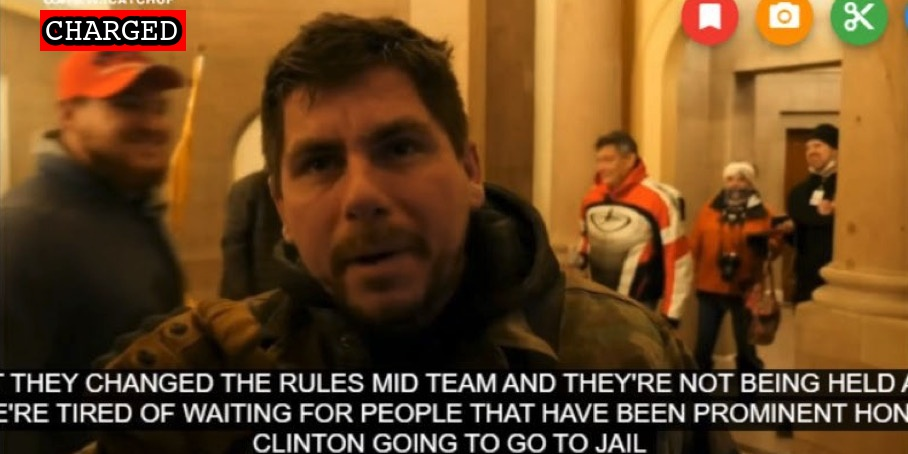
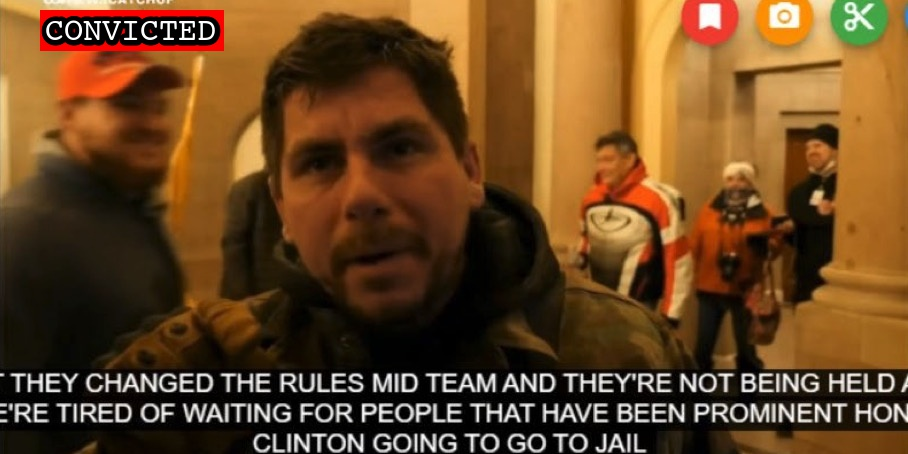
Latest import

Changed region(s): [[0.0617, 0.0, 0.2467, 0.1233]]

diff --git a/commands/suspect-import.ts b/commands/suspect-import.ts
@@ -358,6 +358,7 @@ const falsePositives = (site: string) => {
       set.add("Zoyganeles");
       set.add("Riddle");
       set.add("Robinson");
+      set.add("Gray");
       break;
     case "DOJ":
       set.add("Capsel");
@@ -679,6 +680,9 @@ const linkType = (description: string, lastName?: string) => {
     case /Defense Reply to Opposition to Motion for Release from Custody/.test(description):
     case /Defense Reply to Opposition to Motion for Conditional Release/.test(description):
     case /Defense Reply to Government Opposition to Motion for Reconsideration of Pretrial Detention/.test(description):
+    case /Reply to Government Opposition to Motion for Reconsideration of Motion for Conditional Release/.test(
+      description,
+    ):
       return "Defense Reply to Opposition to Motion for Release from Custody";
 
     case /Defense Response to Motion for Appeal of Release Order/.test(description):

diff --git a/docs/_suspects/anthony-mazzio.md b/docs/_suspects/anthony-mazzio.md
@@ -4,15 +4,16 @@ lastName: Mazzio
 hashtag:
 aka:
 residence: Alabama
-status: Charged
+status: Convicted
 date: 2022-03-22
 charged: 2022-03-22
 indicted:
-convicted:
+convicted: 2022-06-24
+acquitted:
 sentenced:
 dismissed:
 deceased:
-plea_hearing:
+plea_hearing: 2022-06-24
 trial_date:
 sentencing:
 age:
@@ -26,18 +27,25 @@ courtroom:
 courthouse:
 raid:
 perpwalk:
-quote: 'We are tired of waiting for people that have been prominent, honestly Hillary Clinton is going to go to jail.'
+quote: "We are tired of waiting for people that have been prominent, honestly Hillary Clinton is going to go to jail."
 title: Anthony Mazzio charged on March 22nd, 2022
 description: Click for latest case details. Suspects innocent until proven guilty.
 author: seditiontrack
 layout: suspect
 published: true
-caseNumber:
+caseNumber: 1:22-cr-214
 videos:
 charges:
+  - code: 40 USC § 5104(e)(2)(G)
+    title: Parading, demonstrating or picketing in a Capitol building
+    url: https://www.law.cornell.edu/uscode/text/40/5104
+    felony: false
 sentence:
 ---
 
 - [News Report](https://www.msn.com/en-us/news/politics/capitol-rioter-vowed-hillary-clinton-is-going-to-go-to-jail-now-he-s-the-one-facing-time-behind-bars/ar-AAVQGKt)
 - [Complaint](https://www.justice.gov/usao-dc/case-multi-defendant/file/1490451/download)
 - [Statement of Facts](https://www.justice.gov/usao-dc/case-multi-defendant/file/1490456/download)
+- [Information](https://www.justice.gov/usao-dc/case-multi-defendant/file/1515086/download)
+- [Plea Agreement](https://www.justice.gov/usao-dc/case-multi-defendant/file/1515091/download)
+- [Statement of Offense](https://www.justice.gov/usao-dc/case-multi-defendant/file/1515096/download)

diff --git a/docs/_suspects/donovan-crowl.md b/docs/_suspects/donovan-crowl.md
@@ -9,10 +9,12 @@ date: 2021-01-17
 charged: 2021-01-17
 indicted: 2021-01-27
 convicted:
+acquitted:
 sentenced:
 dismissed:
 deceased:
 plea_hearing:
+trial_date:
 sentencing:
 age: 50
 occupation: Former U.S. Military (Marines)
@@ -41,6 +43,6 @@ sentence:
 - [Complaint](https://www.justice.gov/opa/page/file/1356121/download)
 - [Statement of Facts](https://www.justice.gov/opa/page/file/1360991/download)
 - [DOJ Press Release](https://www.justice.gov/opa/pr/three-individuals-affiliated-oath-keepers-indicted-federal-court-conspiracy-obstruct)
-- [Indictment](https://www.justice.gov/usao-dc/case-multi-defendant/file/1471056/download)
+- [Indictment](https://www.justice.gov/usao-dc/case-multi-defendant/file/1515116/download)
 - [Government Opposition to Reconsideration of Release](https://extremism.gwu.edu/sites/g/files/zaxdzs2191/f/Donovan%20Crowl%20Governments%20Opposition%20to%20Defendants%20Motion%20for%20Reconsideration%20of%20Detention%20Order.pdf)
 - [Detention Order](https://extremism.gwu.edu/sites/g/files/zaxdzs2191/f/Donovan%20Crowl%20Governments%20Opposition%20to%20Defendants%20Motion%20for%20Reconsideration%20of%20Detention%20Order.pdf)

diff --git a/docs/_suspects/bennie-parker.md b/docs/_suspects/bennie-parker.md
@@ -9,10 +9,12 @@ date: 2021-02-18
 charged: 2021-02-18
 indicted: 2021-02-19
 convicted:
+acquitted:
 sentenced:
 dismissed:
 deceased:
 plea_hearing:
+trial_date:
 sentencing:
 age: 70
 occupation:
@@ -39,5 +41,5 @@ sentence:
 - [News Report](https://www.dispatch.com/story/news/politics/state/2021/02/19/capitol-arrests-warren-county-couple-charged-jan-6-insurrection/4500408001/)
 - [Complaint](https://htv-prod-media.s3.amazonaws.com/files/morrow-couple-1613747755.pdf)
 - [Statement of Facts](https://www.justice.gov/usao-dc/case-multi-defendant/file/1369066/download)
-- [Indictment](https://www.justice.gov/usao-dc/case-multi-defendant/file/1471066/download)
+- [Indictment](https://www.justice.gov/usao-dc/case-multi-defendant/file/1515121/download)
 - [DOJ Press Release](https://www.justice.gov/usao-dc/pr/six-individuals-affiliated-oath-keepers-indicted-federal-grand-jury-conspiracy-obstruct)

diff --git a/docs/_suspects/connie-meggs.md b/docs/_suspects/connie-meggs.md
@@ -9,10 +9,12 @@ date: 2021-02-17
 charged: 2021-02-17
 indicted: 2021-02-19
 convicted: 
+acquitted:
 sentenced: 
 dismissed: 
 deceased:
 plea_hearing:
+trial_date:
 sentencing:
 age: 59
 occupation:
@@ -38,6 +40,6 @@ sentence:
 ---
 - [News Report](https://www.cbsnews.com/news/capitol-riot-oath-keepers-indicted-conspiracy/)
 - [Complaint](https://www.justice.gov/usao-dc/case-multi-defendant/file/1369076/download)
-- [Indictment](https://www.justice.gov/usao-dc/case-multi-defendant/file/1471101/download)
+- [Indictment](https://www.justice.gov/usao-dc/case-multi-defendant/file/1515136/download)
 - [DOJ Press Release](https://www.justice.gov/usao-dc/pr/six-individuals-affiliated-oath-keepers-indicted-federal-grand-jury-conspiracy-obstruct)
 - [Statement of Facts](https://www.justice.gov/usao-dc/case-multi-defendant/file/1369076/download)

diff --git a/docs/_suspects/sandra-parker.md b/docs/_suspects/sandra-parker.md
@@ -9,10 +9,12 @@ date: 2021-02-18
 charged: 2021-02-18
 indicted: 2021-02-19
 convicted: 
+acquitted:
 sentenced: 
 dismissed: 
 deceased:
 plea_hearing:
+trial_date:
 sentencing:
 age: 62
 occupation:
@@ -40,4 +42,4 @@ sentence:
 - [Complaint](https://htv-prod-media.s3.amazonaws.com/files/morrow-couple-1613747755.pdf)
 - [Statement of Facts](https://www.justice.gov/usao-dc/case-multi-defendant/file/1369066/download)
 - [Indictment](https://www.justice.gov/usao-dc/case-multi-defendant/file/1471061/download)
-- [DOJ Press Release](https://www.justice.gov/usao-dc/pr/six-individuals-affiliated-oath-keepers-indicted-federal-grand-jury-conspiracy-obstruct)
+- [DOJ Press Release](https://www.justice.gov/usao-dc/case-multi-defendant/file/1515126/download)

diff --git a/docs/_suspects/james-beeks.md b/docs/_suspects/james-beeks.md
@@ -9,10 +9,12 @@ date: 2021-11-18
 charged: 2021-11-18
 indicted: 2021-12-01
 convicted:
+acquitted:
 sentenced:
 dismissed:
 deceased:
 plea_hearing:
+trial_date:
 sentencing:
 age: 49
 occupation: Broadway Actor, Michael Jackson Impersonator
@@ -38,4 +40,4 @@ sentence:
 ---
 - [News Report](https://www.wpsdlocal6.com/news/florida-man-playing-judas-in-jesus-christ-superstar-accused-in-jan-6-capitol-riot/article_031a5be2-4e45-11ec-b6e1-abd1cda0b6e9.html)
 - [Statement of Facts](https://www.justice.gov/usao-dc/case-multi-defendant/file/1471116/download)
-- [Indictment](https://www.justice.gov/usao-dc/case-multi-defendant/file/1471121/download)
+- [Indictment](https://www.justice.gov/usao-dc/case-multi-defendant/file/1515146/download)

diff --git a/docs/_suspects/laura-steele.md b/docs/_suspects/laura-steele.md
@@ -9,10 +9,12 @@ date: 2021-02-17
 charged: 2021-02-17
 indicted: 2021-02-19
 convicted: 
+acquitted:
 sentenced: 
 dismissed: 
 deceased:
 plea_hearing:
+trial_date:
 sentencing:
 age: 52
 occupation: Law Enforcement (former SWAT)
@@ -38,5 +40,5 @@ sentence:
 ---
 - [News Report](https://www.cbsnews.com/news/capitol-riot-oath-keepers-indicted-conspiracy/)
 - [Complaint](https://www.justice.gov/usao-dc/case-multi-defendant/file/1369076/download)
-- [Indictment](https://www.justice.gov/usao-dc/case-multi-defendant/file/1471076/download)
+- [Indictment](https://www.justice.gov/usao-dc/case-multi-defendant/file/1515131/download)
 - [Statement of Facts](https://www.justice.gov/usao-dc/case-multi-defendant/file/1369076/download)

diff --git a/docs/_suspects/daniel-gray.md b/docs/_suspects/daniel-gray.md
@@ -9,10 +9,12 @@ date: 2021-05-17
 charged: 2021-05-17
 indicted: 2021-07-28
 convicted:
+acquitted:
 sentenced:
 dismissed:
 deceased:
 plea_hearing:
+trial_date:
 sentencing:
 age: 41
 occupation:
@@ -36,6 +38,7 @@ videos:
 charges:
 sentence:
 ---
+
 - [News Report](https://www.news4jax.com/news/local/2021/05/19/neptune-beach-man-involved-in-altercation-that-led-to-officer-getting-hurt-during-jan-6-capitol-riot-court-documents-say/)
 - [Statement of Facts](https://www.justice.gov/usao-dc/press-release/file/1395251/download)
 - [Indictment](https://www.justice.gov/usao-dc/case-multi-defendant/file/1421286/download)

diff --git a/docs/_suspects/michael-greene.md b/docs/_suspects/michael-greene.md
@@ -33,11 +33,10 @@ description: Click for latest case details. Suspects innocent until proven guilt
 author: seditiontrack
 layout: suspect
 published: true
-caseNumber:
+caseNumber: 1:21-cr-28
 videos:
 charges:
 sentence:
 ---
-
-- [Indictment](https://www.documentcloud.org/documents/22067285-greene_michael_et_al_-_indictment_6-22-22_0)
+- [Indictment](https://www.justice.gov/usao-dc/case-multi-defendant/file/1515111/download)
 - [DOJ Press Release (Indictment)](https://www.justice.gov/usao-dc/pr/member-oath-keepers-indicted-conspiracy-and-other-offenses-related-us-capitol-breach)

diff --git a/docs/_suspects/william-isaacs.md b/docs/_suspects/william-isaacs.md
@@ -9,10 +9,12 @@ date: 2021-05-26
 charged: 2021-05-26
 indicted: 2021-05-26
 convicted:
+acquitted:
 sentenced:
 dismissed:
 deceased:
 plea_hearing:
+trial_date:
 sentencing:
 age:
 occupation:
@@ -37,4 +39,4 @@ charges:
 sentence:
 ---
 - [News Report](https://www.clickorlando.com/news/local/2021/05/31/grand-jury-indicts-kissimmee-man-for-alleged-role-in-capitol-riot/)
-- [Indictment](https://www.justice.gov/usao-dc/case-multi-defendant/file/1471106/download)
+- [Indictment](https://www.justice.gov/usao-dc/case-multi-defendant/file/1515141/download)
